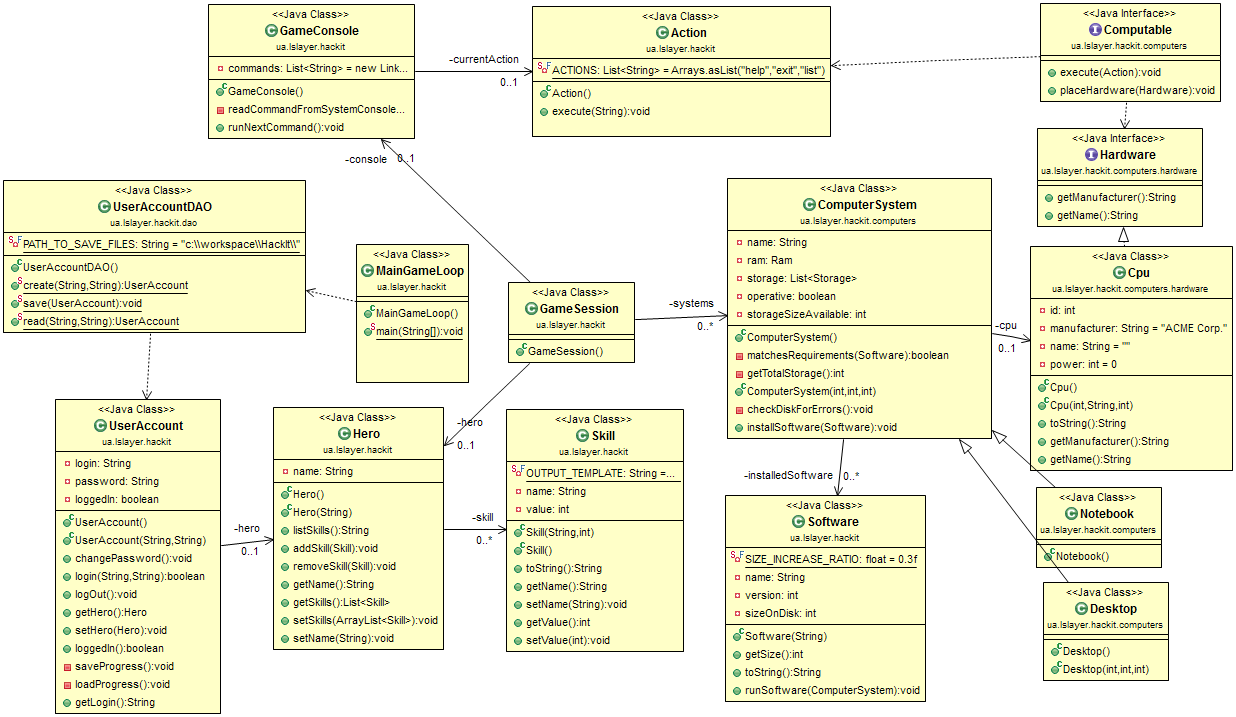
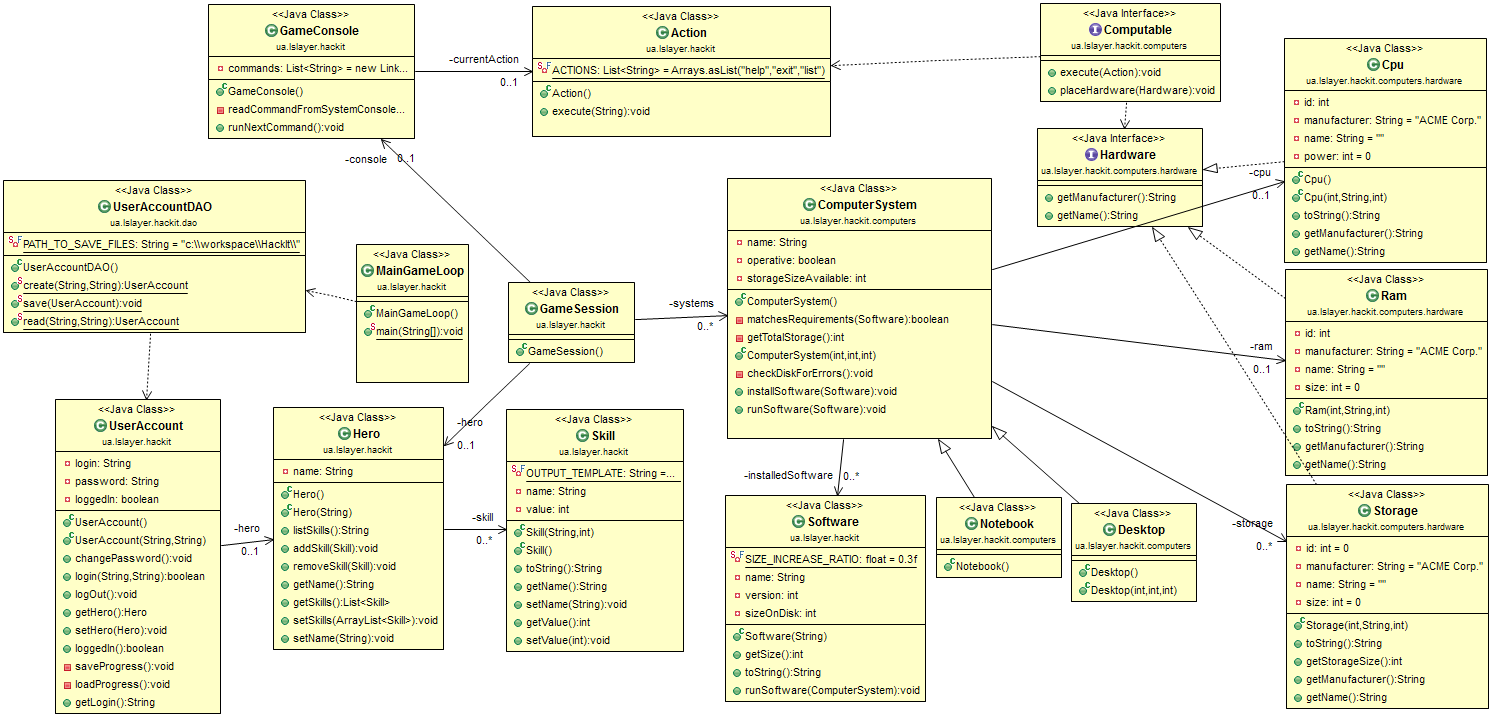
Minor changes

diff --git a/GoJava1/viktor.gogilchyn/HackIt/src/main/java/ua/lslayer/hackit/computers/ComputerSystem.java b/GoJava1/viktor.gogilchyn/HackIt/src/main/java/ua/lslayer/hackit/computers/ComputerSystem.java
@@ -56,7 +56,7 @@ public class ComputerSystem {
     }
     
     public void installSoftware(Software soft) {
-        if (this.operative && soft.getSize() < this. storageSizeAvailable) {
+        if (this.operative && soft.getSize() < this.storageSizeAvailable) {
             this.installedSoftware.add(soft);
             this.storageSizeAvailable -= soft.getSize();
         } else {

diff --git a/GoJava1/viktor.gogilchyn/HackIt/src/main/java/ua/lslayer/hackit/computers/Desktop.java b/GoJava1/viktor.gogilchyn/HackIt/src/main/java/ua/lslayer/hackit/computers/Desktop.java
@@ -1,0 +1,14 @@
+package ua.lslayer.hackit.computers;
+
+public class Desktop extends ComputerSystem {
+
+	public Desktop() {
+		// TODO Auto-generated constructor stub
+	}
+
+	public Desktop(int cpuPower, int ramSize, int storageSize) {
+		super(cpuPower, ramSize, storageSize);
+		// TODO Auto-generated constructor stub
+	}
+
+}

diff --git a/GoJava1/viktor.gogilchyn/HackIt/src/main/java/ua/lslayer/hackit/computers/Computable.java b/GoJava1/viktor.gogilchyn/HackIt/src/main/java/ua/lslayer/hackit/computers/Computable.java
@@ -1,0 +1,9 @@
+package ua.lslayer.hackit.computers;
+
+import ua.lslayer.hackit.Action;
+import ua.lslayer.hackit.computers.hardware.Hardware;
+
+public interface Computable {
+	public void execute(Action action);
+	public void placeHardware(Hardware item);
+}
